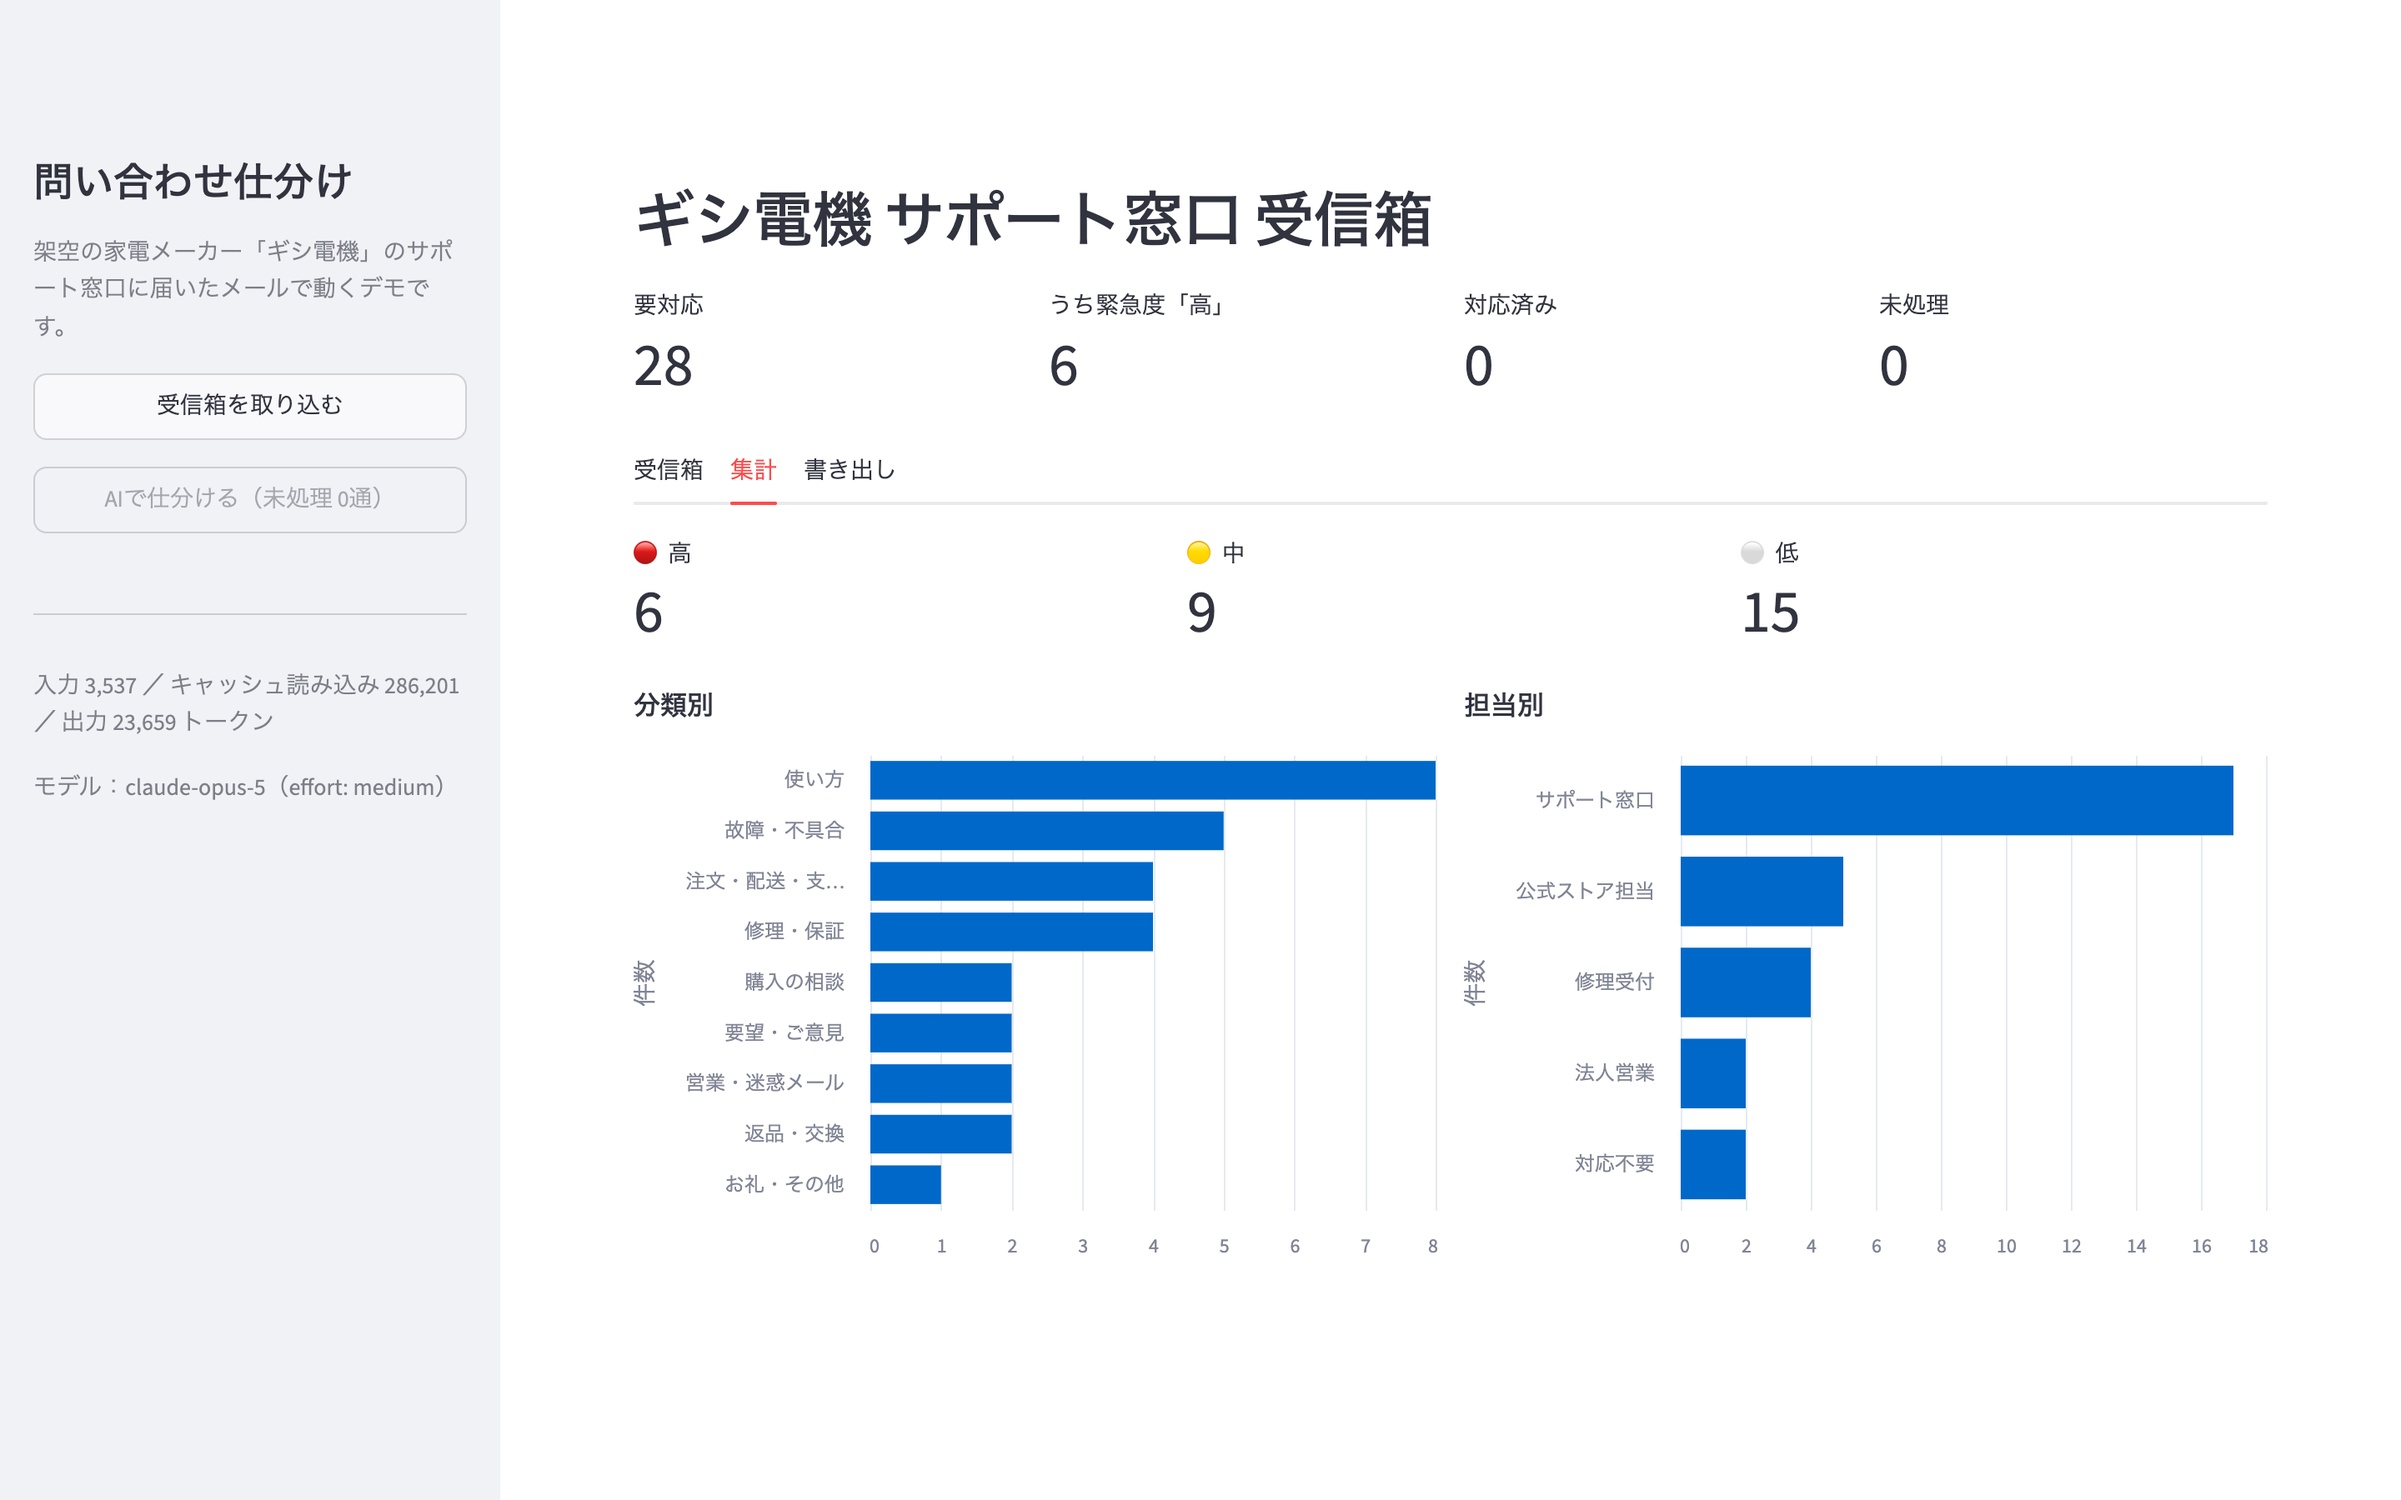
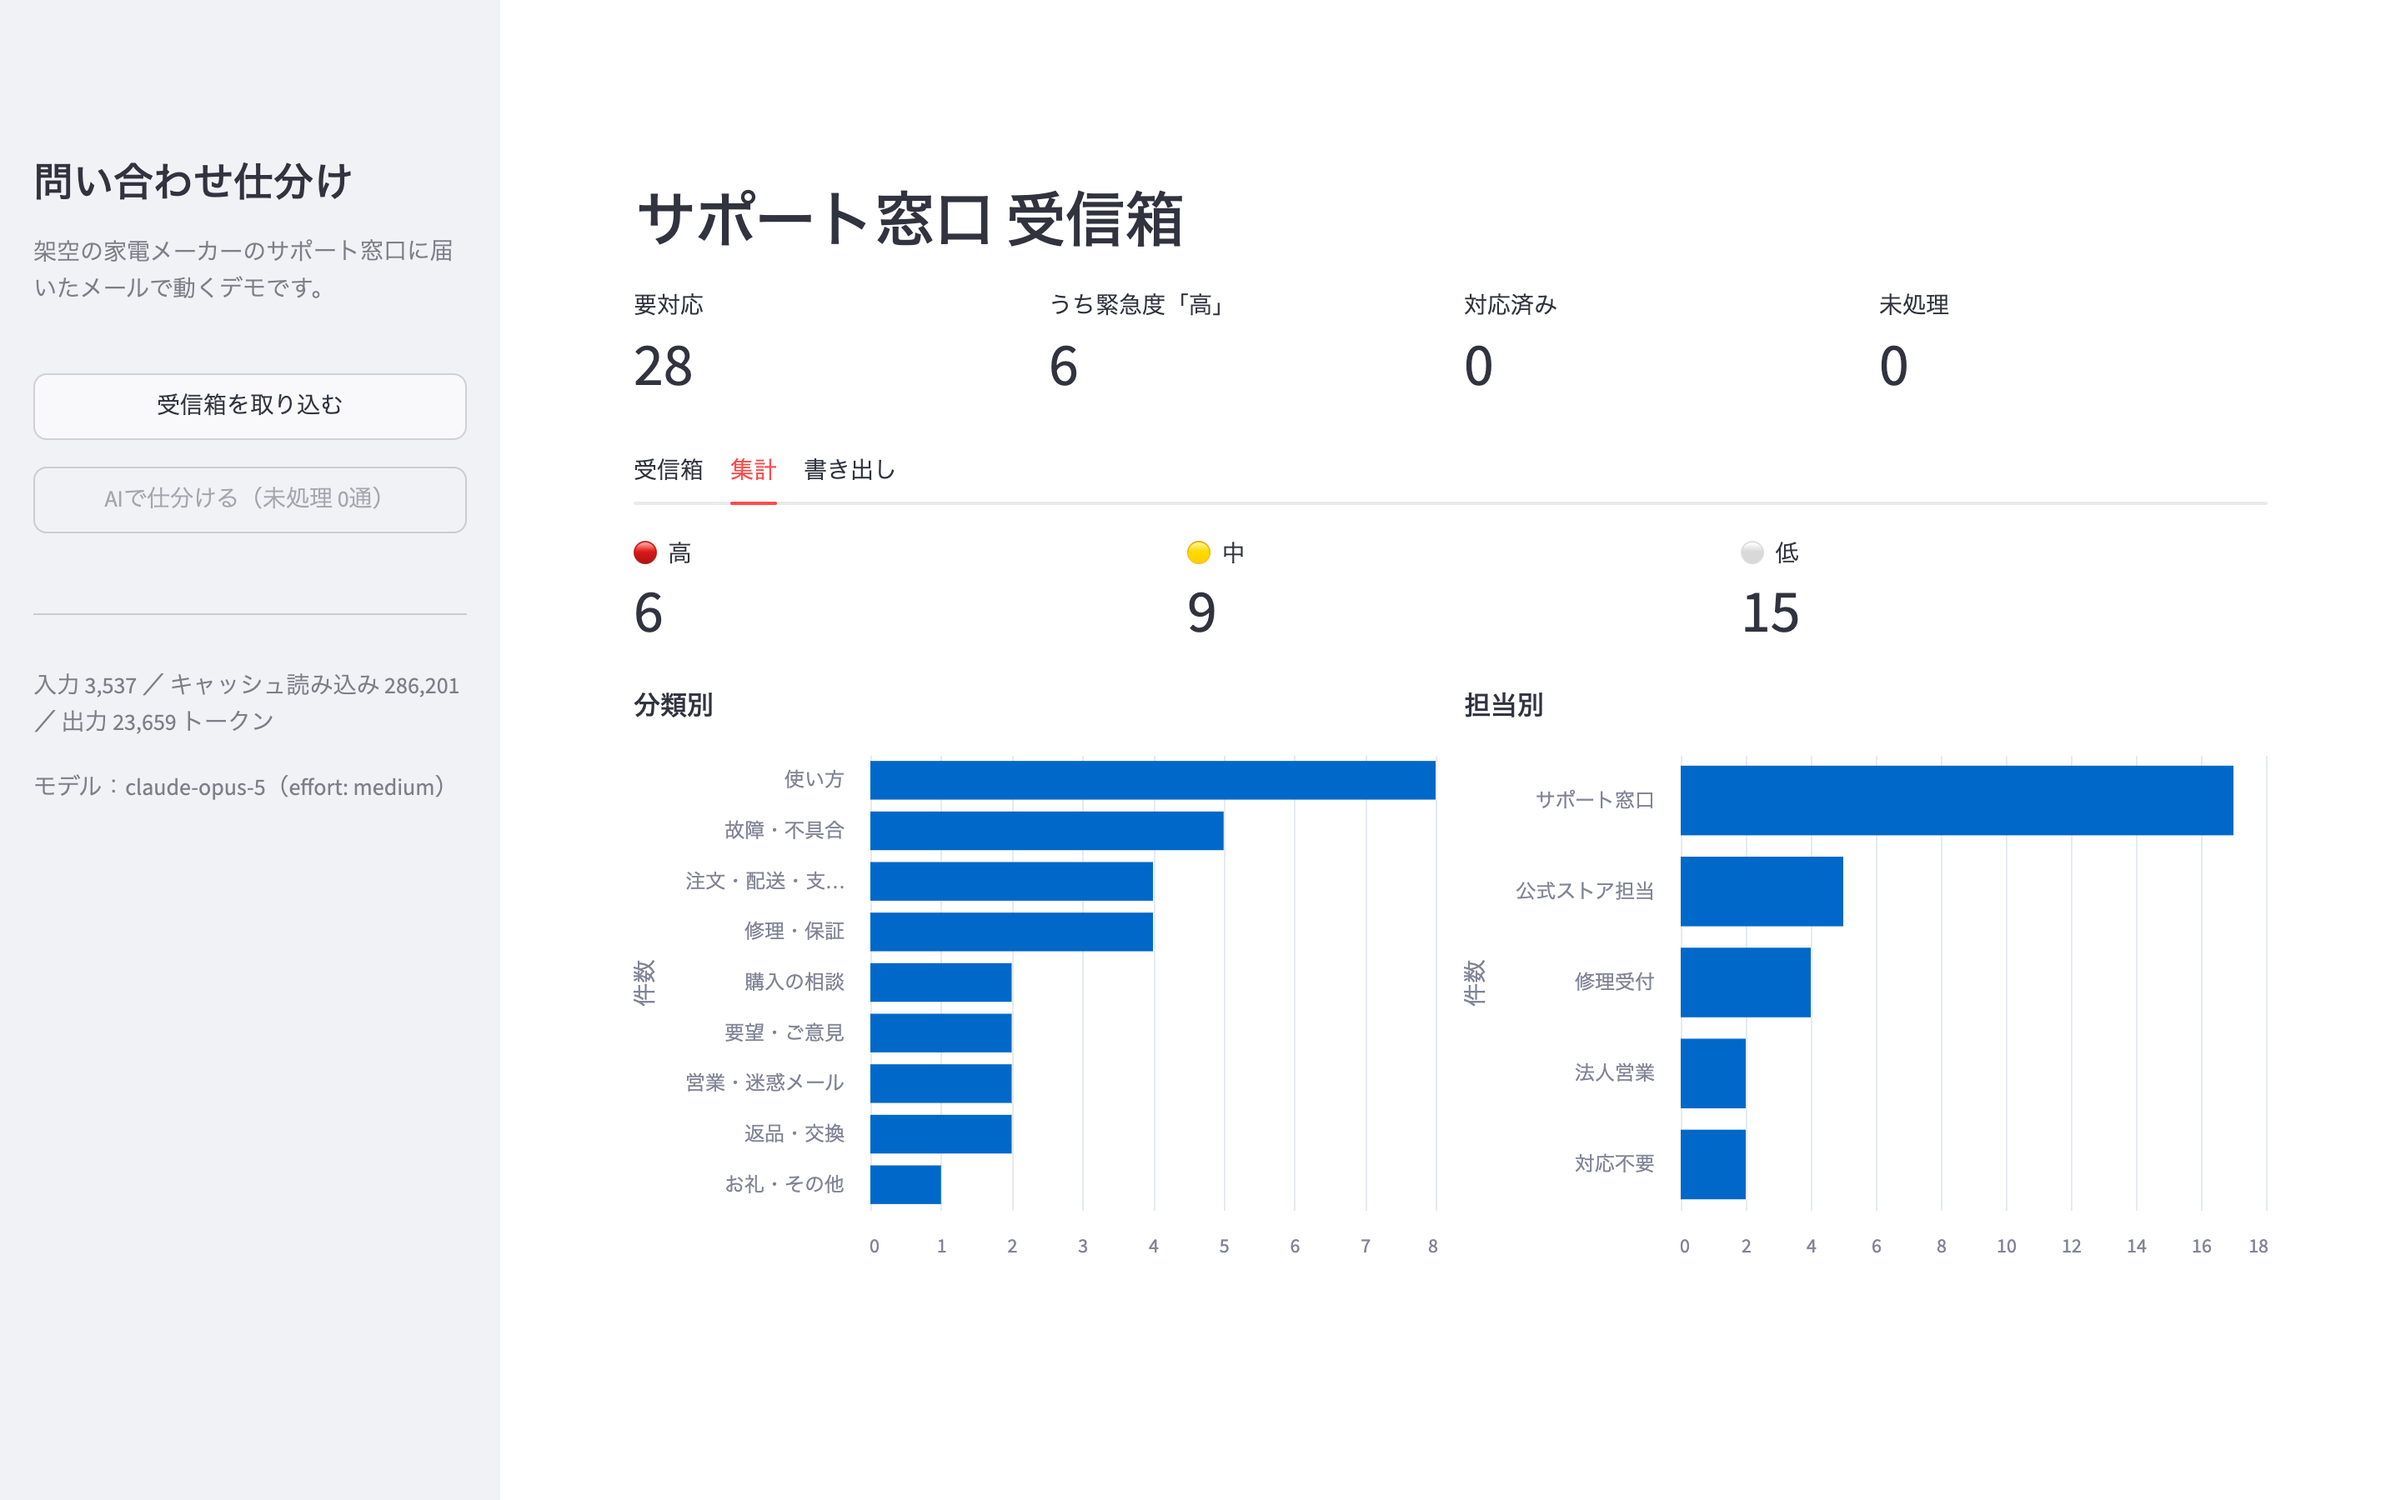
架空の会社名「ギシ電機」を「サンプル電機」に変更し、画面の画像から会社名を消す

Changed region(s): [[0.25, 0.1244, 0.5938, 0.1867], [0.0312, 0.1556, 0.1875, 0.2178]]

diff --git a/triage/classify.py b/triage/classify.py
@@ -15,7 +15,7 @@ Category = Literal[
     "要望・ご意見", "購入の相談", "お礼・その他", "営業・迷惑メール",
 ]
 Priority = Literal["高", "中", "低"]
-Product = Literal["ミストプラス HM-300", "クリアエア AP-500", "ギシ ホームアプリ", "複数・不明", "製品に関係なし"]
+Product = Literal["ミストプラス HM-300", "クリアエア AP-500", "サンプル ホームアプリ", "複数・不明", "製品に関係なし"]
 Assignee = Literal["サポート窓口", "修理受付", "公式ストア担当", "法人営業", "対応不要"]
 
 
@@ -34,7 +34,7 @@ class Triage(BaseModel):
 
 
 INSTRUCTIONS = """\
-あなたは、家電メーカー「ギシ電機」のサポート窓口で、届いた問い合わせメールを仕分ける担当です。
+あなたは、家電メーカー「サンプル電機」のサポート窓口で、届いた問い合わせメールを仕分ける担当です。
 メール1通ごとに、分類・緊急度・担当・要点を判定し、担当者が確認してから送る返信の下書きを作ってください。
 
 ## 緊急度の基準
@@ -47,7 +47,7 @@ INSTRUCTIONS = """\
 - 社内で確認が必要なこと（修理の進み具合、請求の状況、在庫など）は「確認のうえ、あらためてご連絡します」とし、結果を推測しない。
 - 安全に関わる内容では、最初に使用を止めて電源プラグを抜くよう伝える。
 - 返信に必要な情報が足りないときは、型番・製造番号・注文番号など、何を知らせてほしいかを具体的に書く。
-- 冒頭は「〇〇様」とお客様の名前で始め、末尾は「ギシ電機 サポート窓口【担当者名】」で結ぶ。【担当者名】はそのまま残す。
+- 冒頭は「〇〇様」とお客様の名前で始め、末尾は「サンプル電機 サポート窓口【担当者名】」で結ぶ。【担当者名】はそのまま残す。
 - 結論を先に書き、同じことを繰り返さない。定型の前置きや過度な謝罪は避ける。
 - 受付番号・注文番号など、対象を特定できる情報がすでにあるときは、同じ目的の情報を重ねて尋ねない。
 - カード番号（下4桁を含む）・パスワードなどの決済や認証の情報は、メールで尋ねない。

diff --git a/app.py b/app.py
@@ -73,7 +73,7 @@ def run_triage(store: Store) -> None:
 def sidebar(store: Store, rows: list[dict]) -> None:
     with st.sidebar:
         st.title("問い合わせ仕分け")
-        st.caption("架空の家電メーカー「ギシ電機」のサポート窓口に届いたメールで動くデモです。")
+        st.caption("架空の家電メーカー「サンプル電機」のサポート窓口に届いたメールで動くデモです。")
         if st.button("受信箱を取り込む", width="stretch"):
             added = store.import_mails(read_inbox(INBOX_DIR))
             st.toast(f"{added}通を取り込みました。" if added else "新しいメールはありません。")
@@ -235,7 +235,7 @@ def main() -> None:
     rows = store.all()
     sidebar(store, rows)
 
-    st.header("ギシ電機 サポート窓口 受信箱")
+    st.header("サンプル電機 サポート窓口 受信箱")
     triaged = [r for r in rows if r["triage"]]
     a, b, c, d = st.columns(4)
     a.metric("要対応", sum(r["status"] == "open" for r in rows))

diff --git a/knowledge/app-wifi.md b/knowledge/app-wifi.md
@@ -1,10 +1,10 @@
-# ギシ ホームアプリとWi-Fi接続
+# サンプル ホームアプリとWi-Fi接続
 
-ギシ ホームは、ミストプラス HM-300 とクリアエア AP-500 をスマートフォンから操作できる無料アプリです。iOS 16以降、Android 11以降に対応しています。
+サンプル ホームは、ミストプラス HM-300 とクリアエア AP-500 をスマートフォンから操作できる無料アプリです。iOS 16以降、Android 11以降に対応しています。
 
 ## 本体をWi-Fiにつなぐ手順
 
-1. ギシ ホームアプリを開き、「機器を追加」をタップします。
+1. サンプル ホームアプリを開き、「機器を追加」をタップします。
 2. 本体の「Wi-Fi」ボタンを5秒長押しします。Wi-Fiランプが点滅したら、接続待ちの状態です。
 3. アプリの画面に従って、ご家庭のWi-Fiのネットワーク名とパスワードを入力します。
 4. Wi-Fiランプが点灯に変わったら、接続は完了です。

diff --git a/README.md b/README.md
@@ -3,7 +3,7 @@
 サポート窓口に届く問い合わせメールを、AIが**分類・緊急度・担当**に仕分け、**返信の下書き**まで用意します。
 担当者は、緊急度の高い順に並んだ一覧から下書きを確認・修正して送るだけで済みます。メールの自動送信はしません。
 
-> 題材は架空の家電メーカー「ギシ電機」です。メール・人物・会社はすべてデモ用に作成したもので、実在のものとは関係ありません。
+> 題材は架空の家電メーカー「サンプル電機」です。メール・人物・会社はすべてデモ用に作成したもので、実在のものとは関係ありません。
 > 同じ会社の製品サポートチャット：[support-faq-rag](https://github.com/gishi-dev/support-faq-rag)
 
 ![緊急度の高い順に並んだ受信箱](images/inbox.png)

diff --git a/knowledge/contact.md b/knowledge/contact.md
@@ -1,6 +1,6 @@
 # お問い合わせ窓口
 
-ギシ電機は架空の家電メーカーです。この資料はデモ用に作成したもので、実在の会社・製品とは関係ありません。
+サンプル電機は架空の家電メーカーです。この資料はデモ用に作成したもので、実在の会社・製品とは関係ありません。
 
 ## カスタマーサポートの受付時間
 
@@ -15,7 +15,7 @@
 
 ## チャットサポート
 
-公式サイトとギシ ホームアプリのチャットでは、AIがよくある質問にお答えします。
+公式サイトとサンプル ホームアプリのチャットでは、AIがよくある質問にお答えします。
 AIで解決しない場合は、平日10時〜17時の間、担当者によるチャットに切り替えられます。
 
 ## 修理のご相談

diff --git a/knowledge/ap500-faq.md b/knowledge/ap500-faq.md
@@ -13,7 +13,7 @@
 ## 加湿機能はありますか
 
 クリアエア AP-500 に加湿機能はありません。加湿も必要な場合は、加湿器「ミストプラス HM-300」との併用をおすすめします。
-ギシ ホームアプリを使うと、2台をまとめて操作できます。
+サンプル ホームアプリを使うと、2台をまとめて操作できます。
 
 ## ペットの毛は吸い込めますか
 

diff --git a/knowledge/hm300-manual.md b/knowledge/hm300-manual.md
@@ -27,7 +27,7 @@
 ## タイマー
 
 切タイマーは2時間・4時間・8時間から選べます。
-入タイマーは、ギシ ホームアプリから時刻を指定して設定します。本体のボタンでは設定できません。
+入タイマーは、サンプル ホームアプリから時刻を指定して設定します。本体のボタンでは設定できません。
 
 ## チャイルドロック
 
